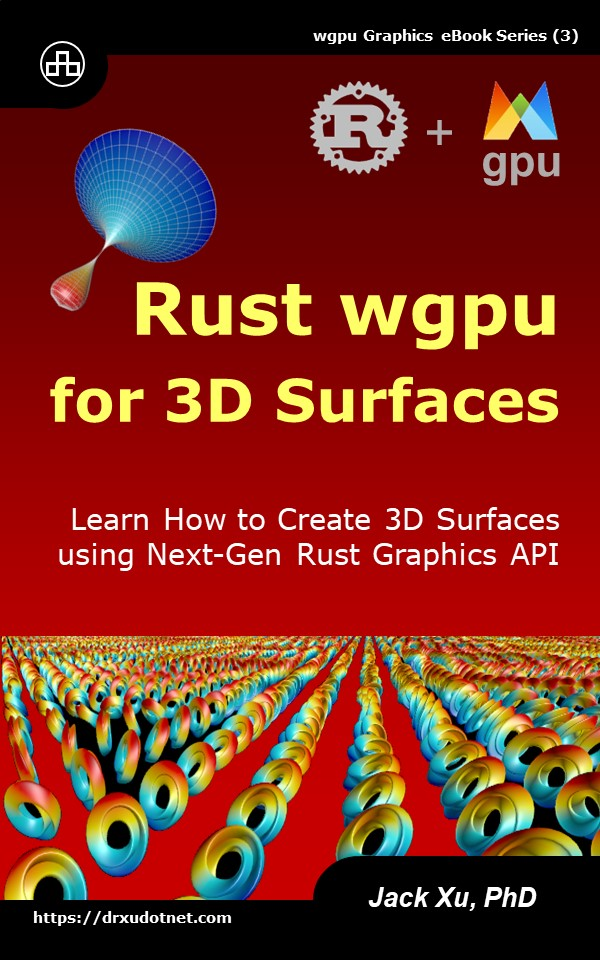
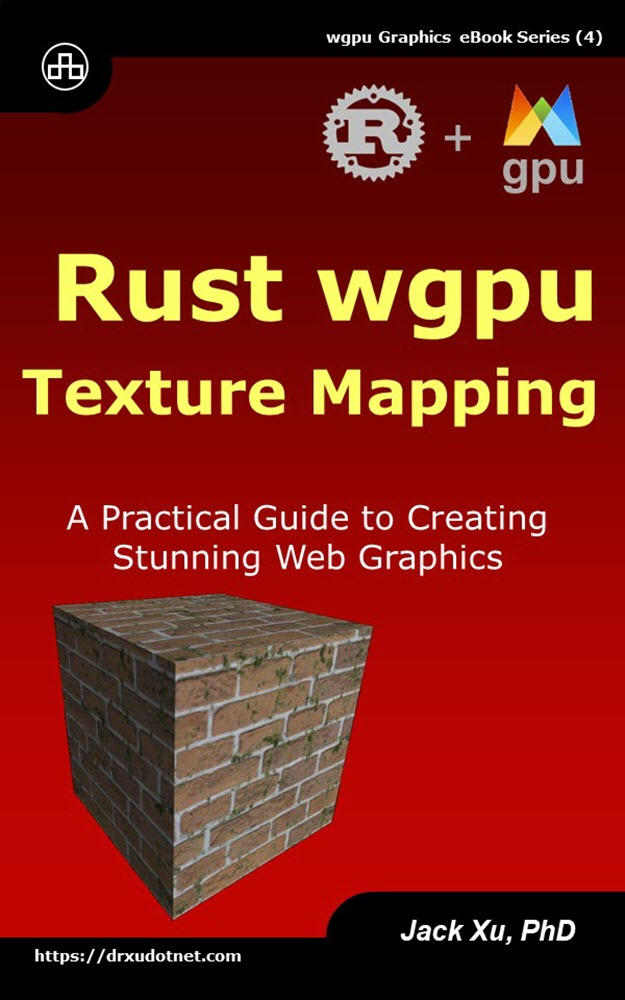
initial commit

diff --git a/README.md b/README.md
@@ -1,7 +1,8 @@
-# Rust wgpu for 3D Surfaces 
-## Learn How to Create 3D Surfaces using Next-Gen Rust Graphics API
+# Rust wgpu Texture Mapping 
+## A Practical Guide to Creating Stunning Graphics Applications
 
-This is the source code of example projects contained in the eBook ["Rust wgpu for 3D Surfaces"](https://www.amazon.com/exec/obidos/ASIN/B0CLSV3SPT/unicadinccom-20). 
+
+This is the source code of example projects contained in the eBook ["Rust wgpu Texture Mapping"](https://www.amazon.com/exec/obidos/ASIN/B0CLSV3SPT/unicadinccom-20). 
 
 <p align="center">
 <a href="https://drxudotnet.com"><img src="assets/cover.jpg" width="200" height="320"></a>
